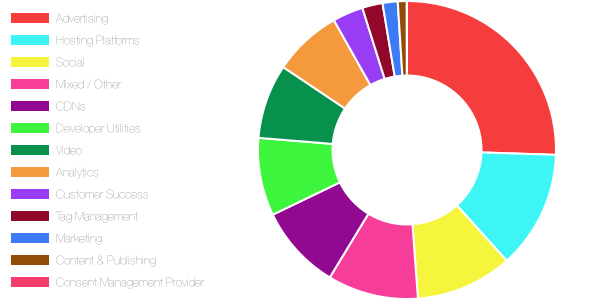
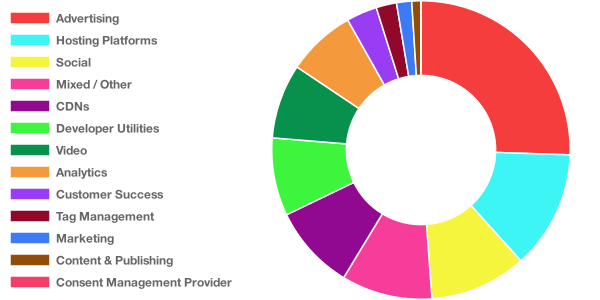
Update chart color contrast and border width

diff --git a/bin/create-markdown.js b/bin/create-markdown.js
@@ -65,7 +65,12 @@ async function createChartImages() {
   const chartByCategory = new ChartJSNodeCanvas({width: 600, height: 300})
   const buffer = await chartByCategory.renderToBuffer({
     options: {
-      legend: {position: 'left'},
+      legend: {
+        position: 'left',
+        labels: {
+          fontStyle: 'bold'
+        }
+      },
     },
     type: 'doughnut',
     data: {
@@ -74,6 +79,7 @@ async function createChartImages() {
         {
           label: 'Breakdown By Category',
           backgroundColor: _.map(categories, 'color'),
+          borderWidth: 1.5,
           data: _.map(categories, 'totalExecutionTime'),
         },
       ],
